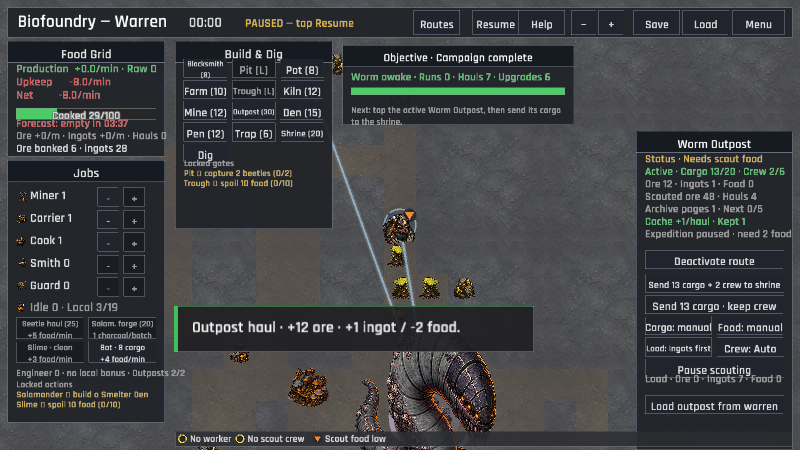
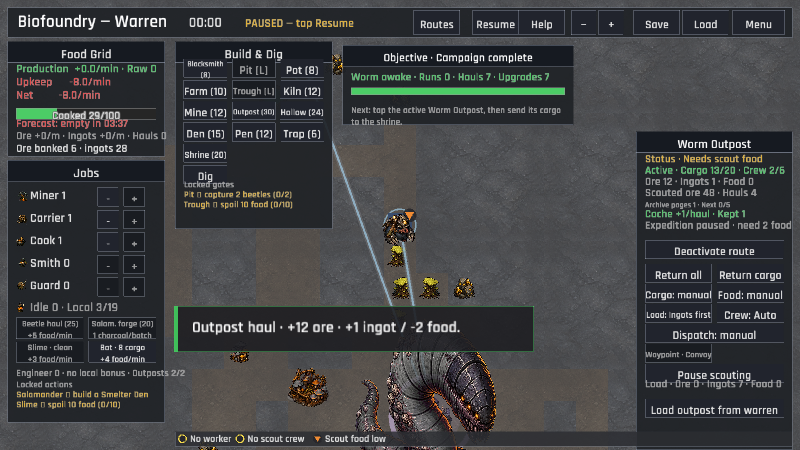
The outpost fits its whole road into a small window (compact route controls)
The awakened Outpost card pushed return choices, upgrade actions, scouting, and the final Warren load below the 800x450 touch viewport. Compact rendering now pairs the return choices and sequential upgrade controls with concise labels, while the full desktop route remains unchanged.

The official touch audit covers the three Wormsong Chorus scenes, and refreshed compact Signal Cache and Chorus haul captures show the complete action path without grown-target overlap. Verified with cargo fmt, 500 all-target tests, Clippy with warnings denied, the Rust source-size gate, git diff checks, and publish.ps1.

Changed region(s): [[0.7812, 0.3733, 1.0, 0.9333], [0.2188, 0.2178, 0.4062, 0.4667]]

diff --git a/src/ui/hud/inspect/outpost/compact_controls.rs b/src/ui/hud/inspect/outpost/compact_controls.rs
@@ -1,0 +1,180 @@
+//! Compact route-control layout for the awakened Outpost inspection card.
+
+use super::{CompactRouteContext, RouteUpgradeContext};
+use crate::ui::hud::widgets::hud_button;
+use crate::ui::UiAction;
+use macroquad::prelude::*;
+
+pub(super) fn draw_compact_route_return_controls(context: CompactRouteContext<'_>) {
+    let CompactRouteContext {
+        session,
+        outpost,
+        panel,
+        x,
+        y,
+        crew,
+        button_height,
+        button_step,
+        mouse,
+        actions,
+        ..
+    } = context;
+    let cargo = outpost.map(|route| route.cargo_total()).unwrap_or(0);
+    let enabled = session.worm_transit.is_none();
+    let Some(route) = outpost else {
+        hud_button(
+            Rect::new(x, *y, panel.w - 28.0, button_height),
+            "No cargo or crew to return",
+            false,
+            mouse,
+        );
+        *y += button_step;
+        return;
+    };
+    if cargo > 0 && crew > 0 {
+        let column_width = (panel.w - 36.0) * 0.5;
+        let second_column_x = x + column_width + 8.0;
+        if hud_button(
+            Rect::new(x, *y, column_width, button_height),
+            "Return all",
+            enabled,
+            mouse,
+        ) {
+            actions.push(UiAction::TransitToShrine(route.pos));
+        }
+        if hud_button(
+            Rect::new(second_column_x, *y, column_width, button_height),
+            "Return cargo",
+            enabled,
+            mouse,
+        ) {
+            actions.push(UiAction::TransitCargoToShrine(route.pos));
+        }
+    } else if hud_button(
+        Rect::new(x, *y, panel.w - 28.0, button_height),
+        &super::super::outpost_return_label(cargo, crew),
+        enabled && (cargo > 0 || crew > 0),
+        mouse,
+    ) {
+        actions.push(UiAction::TransitToShrine(route.pos));
+    }
+    *y += button_step;
+}
+
+/// Pair the sequential route upgrades on a narrow card. Their compact labels
+/// keep the visible cost and prerequisite while using the inspection text for
+/// the full upgrade explanation.
+pub(super) fn draw_compact_route_upgrade_controls(context: RouteUpgradeContext<'_>) {
+    let RouteUpgradeContext {
+        session,
+        data,
+        pos,
+        outpost,
+        x,
+        width,
+        y,
+        button_height,
+        button_step,
+        mouse,
+        actions,
+    } = context;
+    let mut controls = Vec::new();
+    if outpost.is_some_and(|route| !route.storage_upgraded) {
+        let cost = data.balance.outpost_upgrade_ingots;
+        controls.push((
+            format!("Hold · {cost}"),
+            session.economy.ingots_stock >= cost,
+            UiAction::UpgradeOutpost(pos),
+        ));
+    }
+    if outpost.is_some_and(|route| !route.crew_upgraded) {
+        let cost = data.balance.outpost_crew_upgrade_ingots;
+        controls.push((
+            format!("Camp · {cost}"),
+            session.economy.ingots_stock >= cost,
+            UiAction::UpgradeOutpostCrew(pos),
+        ));
+    }
+    if outpost.is_some_and(|route| {
+        route.storage_upgraded && route.crew_upgraded && !route.survey_upgraded
+    }) {
+        let cost = data.balance.outpost_survey_upgrade_ingots;
+        controls.push((
+            format!("Survey · {cost}"),
+            session.economy.ingots_stock >= cost,
+            UiAction::UpgradeOutpostSurvey(pos),
+        ));
+    }
+    if outpost.is_some_and(|route| route.survey_upgraded && !route.resonator_upgraded) {
+        let cost = data.balance.outpost_resonator_upgrade_ingots;
+        controls.push((
+            format!("Beacon · {cost}"),
+            session.economy.ingots_stock >= cost,
+            UiAction::UpgradeOutpostResonator(pos),
+        ));
+    }
+    if outpost.is_some_and(|route| route.resonator_upgraded && !route.deep_survey_upgraded) {
+        let charter_claimed = session.outpost_charter_claimed;
+        let cost = data.balance.outpost_deep_survey_upgrade_ingots;
+        controls.push((
+            if charter_claimed {
+                format!("Deep · {cost}")
+            } else {
+                "Deep · Charter".to_owned()
+            },
+            charter_claimed && session.economy.ingots_stock >= cost,
+            UiAction::UpgradeOutpostDeepSurvey(pos),
+        ));
+    }
+    if outpost.is_some_and(|route| route.deep_survey_upgraded && !route.signal_cache_upgraded) {
+        let relay_claimed = session.outpost_relay_claimed;
+        let cost = data.balance.outpost_signal_cache_upgrade_ingots;
+        controls.push((
+            if relay_claimed {
+                format!("Cache · {cost}")
+            } else {
+                "Cache · Relay".to_owned()
+            },
+            relay_claimed && session.economy.ingots_stock >= cost,
+            UiAction::UpgradeOutpostSignalCache(pos),
+        ));
+    }
+    if outpost.is_some_and(|route| route.signal_cache_upgraded && !route.waypoint_upgraded) {
+        let convoy_claimed = session.outpost_convoy_claims > 0;
+        let cost = data.balance.outpost_waypoint_upgrade_ingots;
+        controls.push((
+            if convoy_claimed {
+                format!("Waypoint · {cost}")
+            } else {
+                "Waypoint · Convoy".to_owned()
+            },
+            convoy_claimed && session.economy.ingots_stock >= cost,
+            UiAction::UpgradeOutpostWaypoint(pos),
+        ));
+    }
+
+    let column_width = (width - 8.0) * 0.5;
+    let control_count = controls.len();
+    for (index, (label, enabled, action)) in controls.into_iter().enumerate() {
+        let column = index % 2;
+        if hud_button(
+            Rect::new(
+                x + column as f32 * (column_width + 8.0),
+                *y,
+                column_width,
+                button_height,
+            ),
+            &label,
+            enabled,
+            mouse,
+        ) {
+            actions.push(action);
+        }
+        if column == 1 {
+            *y += button_step;
+        }
+    }
+    if control_count % 2 == 1 {
+        *y += button_step;
+    }
+}

diff --git a/src/ui/hud/inspect.rs b/src/ui/hud/inspect.rs
@@ -28,7 +28,7 @@ use breeding::{breed_button_label, breeding_unlock_hint};
 use outpost::outpost_archive_summary;
 use outpost::{
     draw_compact_route_controls, draw_full_route_controls, outpost_signal_cache_summary,
-    outpost_waypoint_summary, CompactRouteContext, FullRouteContext,
+    outpost_waypoint_summary, FullRouteContext,
 };
 use rooms::draw_rest_hollow_inspection;
 pub(super) use status::inspect_status;
@@ -110,10 +110,11 @@ pub(super) fn draw_inspect_panel(
     let x = panel.x + 14.0;
     let mut y = panel.y + 50.0;
     let outpost_button_height = if compact { 30.0 } else { 24.0 };
-    let outpost_button_step = if compact { 34.0 } else { 26.0 };
+    let outpost_button_step = if compact { 30.0 } else { 26.0 };
+    let line_step = if compact { 16.0 } else { 20.0 };
     let line = |text: &str, color: Color, y: &mut f32| {
         draw_ui_text_ex(text, x, *y, TextStyle::new(14.0, color).params());
-        *y += 20.0;
+        *y += line_step;
     };
 
     let (status, status_color) = inspect_status(session, data, building);
@@ -668,7 +669,7 @@ pub(super) fn draw_inspect_panel(
                 }
                 // Leave a full text-line gap before recovery copy so the
                 // baseline cannot crowd the button's lower border.
-                y += if compact { 38.0 } else { 32.0 };
+                y += if compact { 34.0 } else { 32.0 };
                 if !active && (cargo > 0 || crew > 0) {
                     line("Reactivate route to return payload", dark::WARNING, &mut y);
                 }
@@ -682,32 +683,8 @@ pub(super) fn draw_inspect_panel(
                         crew_cap,
                         crew_dispatch_limit,
                     );
-                    let return_label = outpost_return_label(cargo, crew);
-                    if hud_button(
-                        Rect::new(x, y, panel.w - 28.0, outpost_button_height),
-                        &return_label,
-                        cargo > 0 || crew > 0,
-                        mouse,
-                    ) {
-                        actions.push(UiAction::TransitToShrine(pos));
-                    }
-                    y += if compact { outpost_button_step } else { 24.0 };
-                    if cargo > 0
-                        && crew > 0
-                        && hud_button(
-                            Rect::new(x, y, panel.w - 28.0, outpost_button_height),
-                            &outpost_cargo_only_return_label(cargo),
-                            true,
-                            mouse,
-                        )
-                    {
-                        actions.push(UiAction::TransitCargoToShrine(pos));
-                    }
-                    if cargo > 0 && crew > 0 {
-                        y += if compact { outpost_button_step } else { 26.0 };
-                    }
                     if compact {
-                        draw_compact_route_controls(CompactRouteContext {
+                        draw_compact_route_controls(outpost::CompactRouteContext {
                             session,
                             data,
                             pos,
@@ -722,6 +699,30 @@ pub(super) fn draw_inspect_panel(
                             actions,
                         });
                     } else {
+                        let return_label = outpost_return_label(cargo, crew);
+                        if hud_button(
+                            Rect::new(x, y, panel.w - 28.0, outpost_button_height),
+                            &return_label,
+                            cargo > 0 || crew > 0,
+                            mouse,
+                        ) {
+                            actions.push(UiAction::TransitToShrine(pos));
+                        }
+                        y += 24.0;
+                        if cargo > 0
+                            && crew > 0
+                            && hud_button(
+                                Rect::new(x, y, panel.w - 28.0, outpost_button_height),
+                                &outpost_cargo_only_return_label(cargo),
+                                true,
+                                mouse,
+                            )
+                        {
+                            actions.push(UiAction::TransitCargoToShrine(pos));
+                        }
+                        if cargo > 0 && crew > 0 {
+                            y += 26.0;
+                        }
                         draw_full_route_controls(FullRouteContext {
                             session,
                             data,

diff --git a/src/ui/hud/inspect/outpost.rs b/src/ui/hud/inspect/outpost.rs
@@ -10,6 +10,10 @@ use macroquad_toolkit::grid::TilePos;
 use macroquad_toolkit::prelude::*;
 use macroquad_toolkit::ui::draw_ui_text_ex;
 
+mod compact_controls;
+
+use compact_controls::{draw_compact_route_return_controls, draw_compact_route_upgrade_controls};
+
 pub(super) fn outpost_archive_summary(session: &GameSession, data: &GameData) -> Option<String> {
     if !session.outpost_charter_claimed || data.balance.outpost_archive_haul_goal == 0 {
         return None;
@@ -432,6 +436,9 @@ pub(super) fn draw_route_upgrade_controls(context: RouteUpgradeContext<'_>) {
     });
 }
 
+/// Pair the two return choices on a narrow card when both cargo and crew are
+/// remote. A single full-width choice remains for cargo-only or crew-only
+/// payloads, so the action still explains exactly what will travel home.
 /// Keep the route policies and quotas legible on a narrow fixed-resolution
 /// canvas by pairing the two cycling control groups while leaving primary
 /// return, scouting, upgrade, and load actions full width.
@@ -450,6 +457,20 @@ pub(super) fn draw_compact_route_controls(context: CompactRouteContext<'_>) {
         mouse,
         actions,
     } = context;
+    draw_compact_route_return_controls(CompactRouteContext {
+        session,
+        data,
+        pos,
+        outpost,
+        panel,
+        x,
+        y: &mut *y,
+        crew,
+        button_height,
+        button_step,
+        mouse,
+        actions: &mut *actions,
+    });
     let column_width = (panel.w - 36.0) * 0.5;
     let second_column_x = x + column_width + 8.0;
     let auto_return_label = if outpost.is_some_and(|route| route.auto_return_cargo) {
@@ -523,7 +544,7 @@ pub(super) fn draw_compact_route_controls(context: CompactRouteContext<'_>) {
     }
     *y += button_step;
 
-    draw_route_upgrade_controls(RouteUpgradeContext {
+    draw_compact_route_upgrade_controls(RouteUpgradeContext {
         session,
         data,
         pos,

diff --git a/docs/phase-one/CANDIDATE_VERIFICATION.md b/docs/phase-one/CANDIDATE_VERIFICATION.md
@@ -82,13 +82,13 @@ automated simulation results into first-time-player evidence.
 | Multi-route objective ordering | Pass (focused evidence) | If several active Worm Outposts are present, the completed-campaign Objective prioritizes a route with cargo or crew ready, then a route that can be loaded, before an empty active route. This keeps the next visible instruction actionable as the existing outpost activity scales. |
 | Crowding recovery diagnosis | Pass (focused and capture evidence) | The Jobs panel now turns the existing local-capacity penalty into an actionable warning: when local workers exceed floor capacity it shows the estimated work-rate loss, the average local morale cost, and the visible `Dig` control to open more room. Once room is added, it keeps the morale recovery readout visible until wellbeing stabilizes. The warning is absent for a healthy workforce, and [ui_crowding.png](../verification/ui_crowding.png) keeps the diagnosis readable at 800×450. |
 | Endless Rest Hollow | Pass (focused and capture evidence) | Endless Build & Dig now exposes a passive Rest Hollow for 24 ore. Each finished Hollow adds the data-driven local workforce capacity without consuming a job slot, eases the existing crowding ratio, and reports `Providing room` plus its capacity payoff when inspected. The refreshed [ui_endless_rest_hollow.png](../verification/ui_endless_rest_hollow.png) capture keeps the new structure, build control, and inspection card visible. |
-| Endless Wormsong Chorus | Pass (focused and capture evidence) | After the Circuit, three active routes carrying complete Wormsong crews can claim the optional Chorus for 80 banked ingots. While all three complete routes remain intact, each route adds 1 ingot to every haul; the ledger, Objective, inspection card, notification, separate lifetime counter, legacy-save defaults, and recovery behavior expose when the chorus is live or paused. [ui_endless_wormsong_chorus.png](../verification/ui_endless_wormsong_chorus.png), [ui_endless_wormsong_chorus_awarded.png](../verification/ui_endless_wormsong_chorus_awarded.png), and [ui_endless_wormsong_chorus_haul.png](../verification/ui_endless_wormsong_chorus_haul.png) show the normal progress, reward, and live haul states; the matching [compact progress](../verification/ui_compact_endless_wormsong_chorus.png), [compact reward](../verification/ui_compact_endless_wormsong_chorus_awarded.png), and [compact haul](../verification/ui_compact_endless_wormsong_chorus_haul.png) captures keep the touch layout covered at 800×450. |
+| Endless Wormsong Chorus | Pass (focused, capture, and touch-audit evidence) | After the Circuit, three active routes carrying complete Wormsong crews can claim the optional Chorus for 80 banked ingots. While all three complete routes remain intact, each route adds 1 ingot to every haul; the ledger, Objective, inspection card, notification, separate lifetime counter, legacy-save defaults, and recovery behavior expose when the chorus is live or paused. [ui_endless_wormsong_chorus.png](../verification/ui_endless_wormsong_chorus.png), [ui_endless_wormsong_chorus_awarded.png](../verification/ui_endless_wormsong_chorus_awarded.png), and [ui_endless_wormsong_chorus_haul.png](../verification/ui_endless_wormsong_chorus_haul.png) show the normal progress, reward, and live haul states; the matching [compact progress](../verification/ui_compact_endless_wormsong_chorus.png), [compact reward](../verification/ui_compact_endless_wormsong_chorus_awarded.png), and [compact haul](../verification/ui_compact_endless_wormsong_chorus_haul.png) captures keep the touch layout covered at 800×450, and the official audit sweep reports no grown-target overlap. |
 | Optional support upkeep disclosure | Pass (focused and capture evidence) | Available post-campaign support actions now show their ongoing supply draw on a second line before recruitment: food-eaters name their `+food/min` draw and Salamanders name their charcoal-per-batch meal. Already-posted specialists retain their practical role labels, and the refreshed [ui_optional.png](../verification/ui_optional.png) remains readable in the compact layout. |
 | Breeding upkeep disclosure | Pass (focused and capture evidence) | Available Hobgoblin, Overseer, and Engineer actions now show their role benefit, one-time ingot price, and ongoing `food/min` draw before recruitment. Refreshed [ui_breeding.png](../verification/ui_breeding.png) and [ui_compact_breeding.png](../verification/ui_compact_breeding.png) captures keep the two-line choices readable at normal and compact scales. |
 | Study Pen adaptation payoff | Pass (focused and capture evidence) | The existing capture → study → adapt loop now has two real payoffs: 12 study unlocks `Adaptive Haulers`, increasing Beetle Hauler capacity by 20% (5 to 6), and 24 study unlocks `Brood Memory`, shortening Breeding Pit hatch cycles by 20% (150s to 120s). Multiple Study Pens stack their observation rate, while an empty pen reports `Waiting for specimens`; the Study Pen inspection shows specimens, study rate, observation total, and the current/next adaptation, and the Breeding Pit reports its live hatch cycle. Focused simulation, capacity, notice, and inspection coverage pin both thresholds, stacking, and legacy-save behavior. Refreshed [ui_study.png](../verification/ui_study.png) and [ui_compact_study.png](../verification/ui_compact_study.png) captures show the mastered adaptation readout; [ui_study_expansion.png](../verification/ui_study_expansion.png) and [ui_compact_study_expansion.png](../verification/ui_compact_study_expansion.png) show two pens doubling the observation rate, while [ui_study_empty.png](../verification/ui_study_empty.png) and [ui_compact_study_empty.png](../verification/ui_compact_study_empty.png) show the empty-pen recovery state at normal and compact sizes. |
 | Minimum-layout spot check | Pass | The 1200×675 canvas and required HUD remained visible in the 1280×720 Preview viewport. |
 | Public metadata alignment | Pass (Preview) | The generated Preview page names the visible touch actions for panning, inspection, tools, Jobs controls, optional specialist recruitment, awakened Outpost cargo runs, optional automatic loading, cargo-only returns and food-only resupply, and the post-awakening Endless/Menu choices. Production FTP publication remains a separate release action. |
-| Compact viewport exploration | Pass with follow-up | The hosted Preview smoke path at 800×450 keeps the title, field guide, and Warren HUD on-canvas; capture probes at 800×450, 1024×576, 1280×720, and 1440×900 keep the Food/Factory/Worm tutorial cards, Blacksmith queue controls, Shrine pause control, completion choices, and Endless outpost actions visible without clipping or overlap. The compact branch now gives the high-frequency top-bar, Jobs, Build & Dig, Outpost, Blacksmith, Breeding Pit, and Shrine controls larger visual affordances, and the refreshed warning captures keep their messages clear of that row. Representative [ui_compact_warren.png](../verification/ui_compact_warren.png), [ui_compact_blacksmith.png](../verification/ui_compact_blacksmith.png), [ui_compact_breeding.png](../verification/ui_compact_breeding.png), [ui_compact_shrine.png](../verification/ui_compact_shrine.png), [ui_compact_endless_load_preview.png](../verification/ui_compact_endless_load_preview.png), and [ui_compact_endless_upgraded.png](../verification/ui_compact_endless_upgraded.png) captures preserve the responsive states. The compact Blacksmith and Breeding Pit follow-up now uses 36-pixel action targets with 40-pixel spacing; remaining text density and first-time-player comprehension still require human validation. |
+| Compact viewport exploration | Pass with follow-up | The hosted Preview smoke path at 800×450 keeps the title, field guide, and Warren HUD on-canvas; capture probes at 800×450, 1024×576, 1280×720, and 1440×900 keep the Food/Factory/Worm tutorial cards, Blacksmith queue controls, Shrine pause control, completion choices, and Endless outpost actions visible without clipping or overlap. The compact branch now gives the high-frequency top-bar, Jobs, Build & Dig, Outpost, Blacksmith, Breeding Pit, and Shrine controls larger visual affordances; the Outpost card pairs return choices and sequential upgrades so Pause scouting and final Load remain visible, and the refreshed warning captures keep their messages clear of that row. Representative [ui_compact_warren.png](../verification/ui_compact_warren.png), [ui_compact_blacksmith.png](../verification/ui_compact_blacksmith.png), [ui_compact_breeding.png](../verification/ui_compact_breeding.png), [ui_compact_shrine.png](../verification/ui_compact_shrine.png), [ui_compact_endless_load_preview.png](../verification/ui_compact_endless_load_preview.png), [ui_compact_endless_upgraded.png](../verification/ui_compact_endless_upgraded.png), and [ui_compact_endless_wormsong_chorus_haul.png](../verification/ui_compact_endless_wormsong_chorus_haul.png) captures preserve the responsive states. The compact Blacksmith and Breeding Pit follow-up now uses 36-pixel action targets with 40-pixel spacing; remaining text density and first-time-player comprehension still require human validation. |
 | Visible-control smoke path | Pass | A fresh full-screen Preview warren advanced through visible New Warren, + zoom, direct map drag, map-tap inspection (`Stockpile`), valid Farm placement, `− Miner`/`+ Carrier` reassignment, Pause/Resume, Help/Close, Save, and Load without keyboard input. Invalid placement also returned the readable `Can't build there.` notice. The Load round-trip restored the saved `04:45` state with the 10-ore construction site, 2 Miner/2 Carrier staffing, and tutorial `2/5 — Stabilize the Food Grid`; successful placement returned to Inspect instead of creating a second site. This is developer smoke evidence, not a qualifying first-time-player session. |
 | Packaged HUD recovery controls | Pass | A fresh full-screen Preview run changed Settings volume with visible `−`/`+` controls, opened and closed the Field Guide while paused, and resumed the warren with the same visible HUD and tutorial state. This confirms the modal guide leaves the underlying Warren controls recoverable by pointer; it does not replace the still-open full-campaign evidence. |
 | Recent event recovery log | Pass (published capture and Preview) | The visible Field Guide now opens a newest-first Recent Events view backed by the bounded notification history. Published Preview verification opened the guide after a refresh and reviewed persisted `Simulation paused`, `Warren saved.`, and `Warren loaded.` messages; the modal kept both `Field Guide` and `Close` actions available. |
